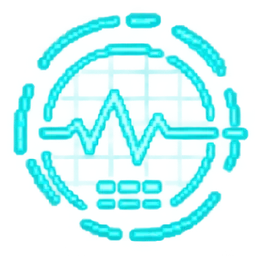
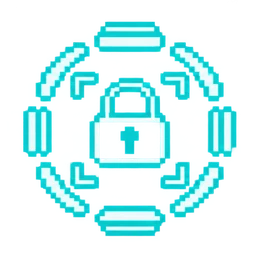
v3.25.1 : nouveaux pictos de l'hologramme (cadenas)
Claude-Session: https://claude.ai/code/session_01GeB1pithaVyiryXPmz1ss5

diff --git a/version.js b/version.js
@@ -5,7 +5,7 @@
    ET la ligne VERSION en haut de sw.js.
    APP_NOTES = ce qui s'affiche dans le bandeau de mise à jour.
    ========================================================= */
-self.APP_VERSION = '3.25.0';
+self.APP_VERSION = '3.25.1';
 self.APP_NOTES = [
-  'Décors animés : flux d’énergie (bleu), chenillard (vert), alerte, étincelles et voyants (or)'
+  'Hologramme : nouveaux pictos cadenas'
 ];

diff --git a/sw.js b/sw.js
@@ -4,7 +4,7 @@
    ⚠ Changer VERSION à chaque nouvelle version (même valeur
    que dans version.js), sinon le téléphone ne voit rien.
    ========================================================= */
-const VERSION = '3.25.0';
+const VERSION = '3.25.1';
 importScripts('version.js');
 
 const CACHE = 'le-coffre-' + VERSION;

diff --git a/README.md b/README.md
@@ -38,6 +38,7 @@ QR standard uniquement (pas de Micro QR).
 - Pour publier une version : changer `APP_VERSION` dans `version.js` **et** `VERSION` en haut de `sw.js` (même valeur).
 
 ### Historique
+- **3.25.1** — Hologramme : nouveaux pictos holo1 à holo5 (cadenas entouré d'un motif différent à chaque étape).
 - **3.25.0** — Ambiance animée différente sur chaque décor (calques sur l'encadrement, masques `img/ambiance/masque-*.png` = pixels lumineux de chaque décor) : porte 1 bleue, une vague d'énergie court de gauche à droite dans les lignes lumineuses ; porte 2 verte, chenillard sur les néons verts et bandes de danger qui défilent sur le cadre de la porte ; porte 3 or, néons d'alerte qui pulsent (de 2,6 s à 0,6 s selon l'alarme), étincelles au hasard sur les tuyaux et le bras robot, panneau de 6 voyants qui clignotent. Cachées pendant le zoom.
 - **3.24.1** — Hologramme : disque bleu agrandi (déborde de 11 % autour de la roue, jusqu'à l'anneau du coffre) ; le picto garde sa taille.
 - **3.24.0** — La roue du coffre ne tourne plus : un écran rond translucide (hologramme bleu cyan) se pose dessus, avec lignes de balayage, reflet qui descend, respiration lumineuse, picto qui flotte et grésille de temps en temps. Picto `img/holo1.webp` au départ, puis holo2 → holo5 à chaque verrou validé (grésillement au changement ; retour à holo1 si le coffre 3 se rebloque). Quand la serrure joue, l'hologramme s'illumine un instant.
